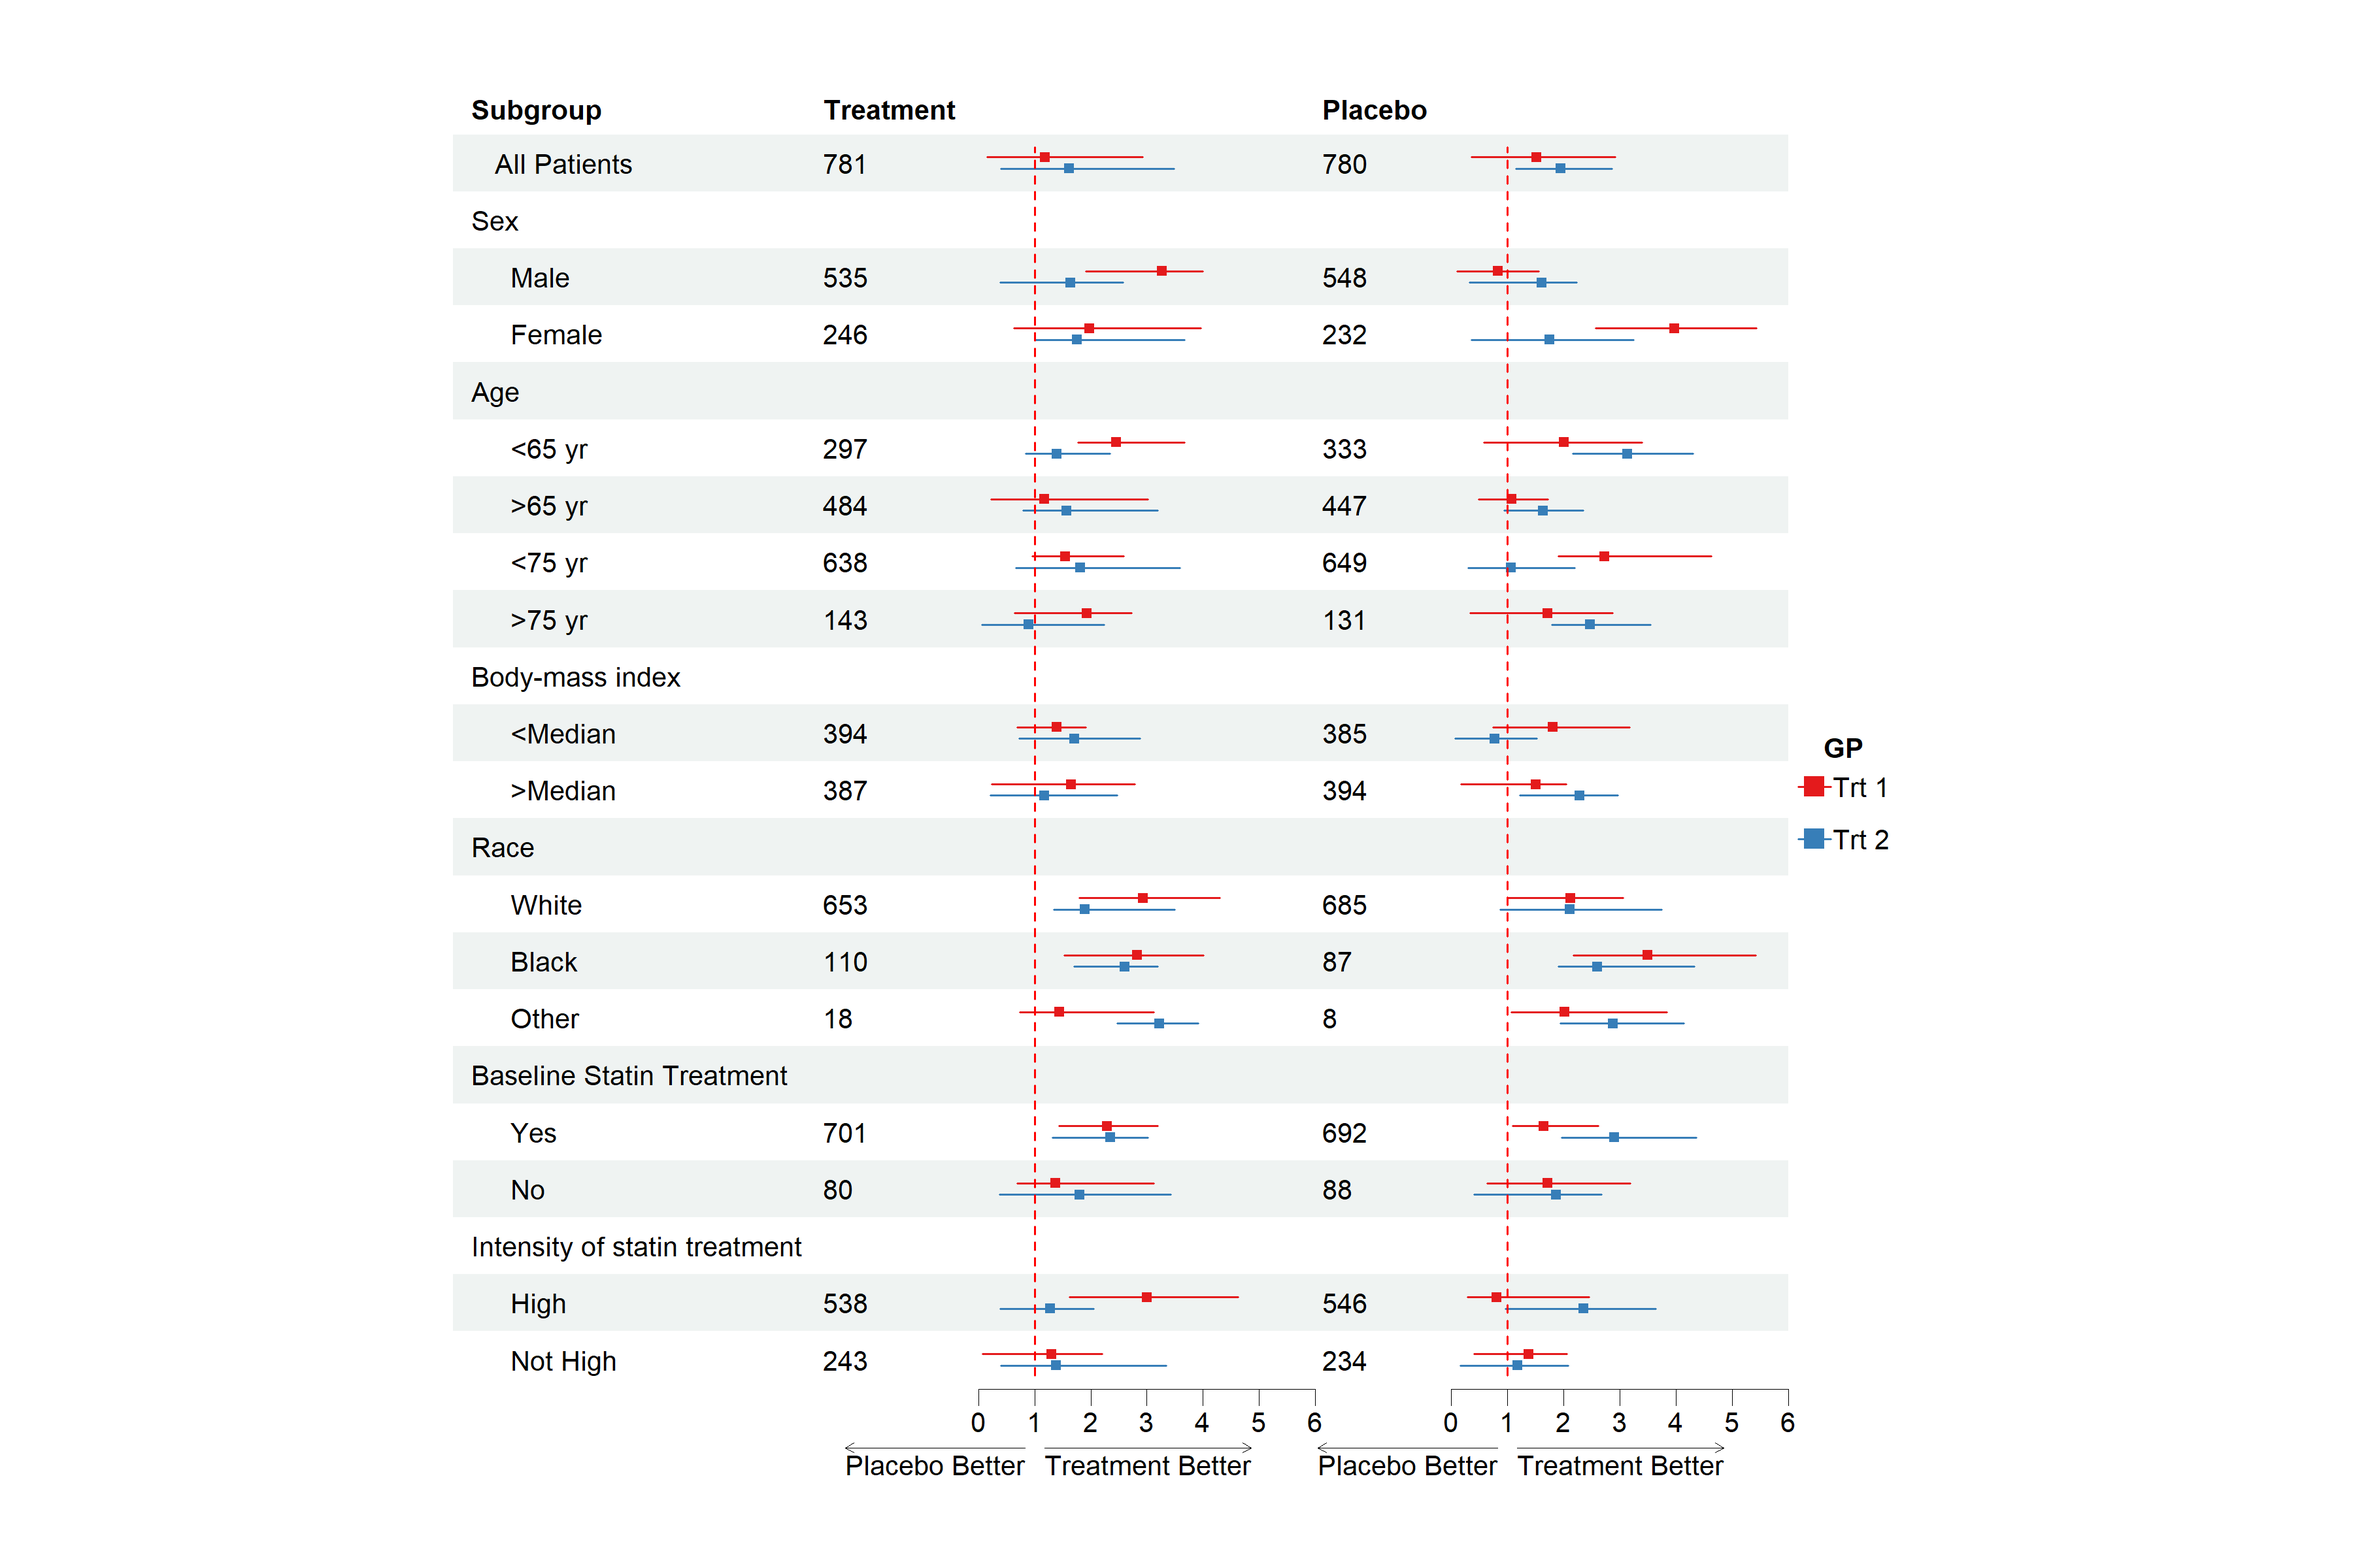
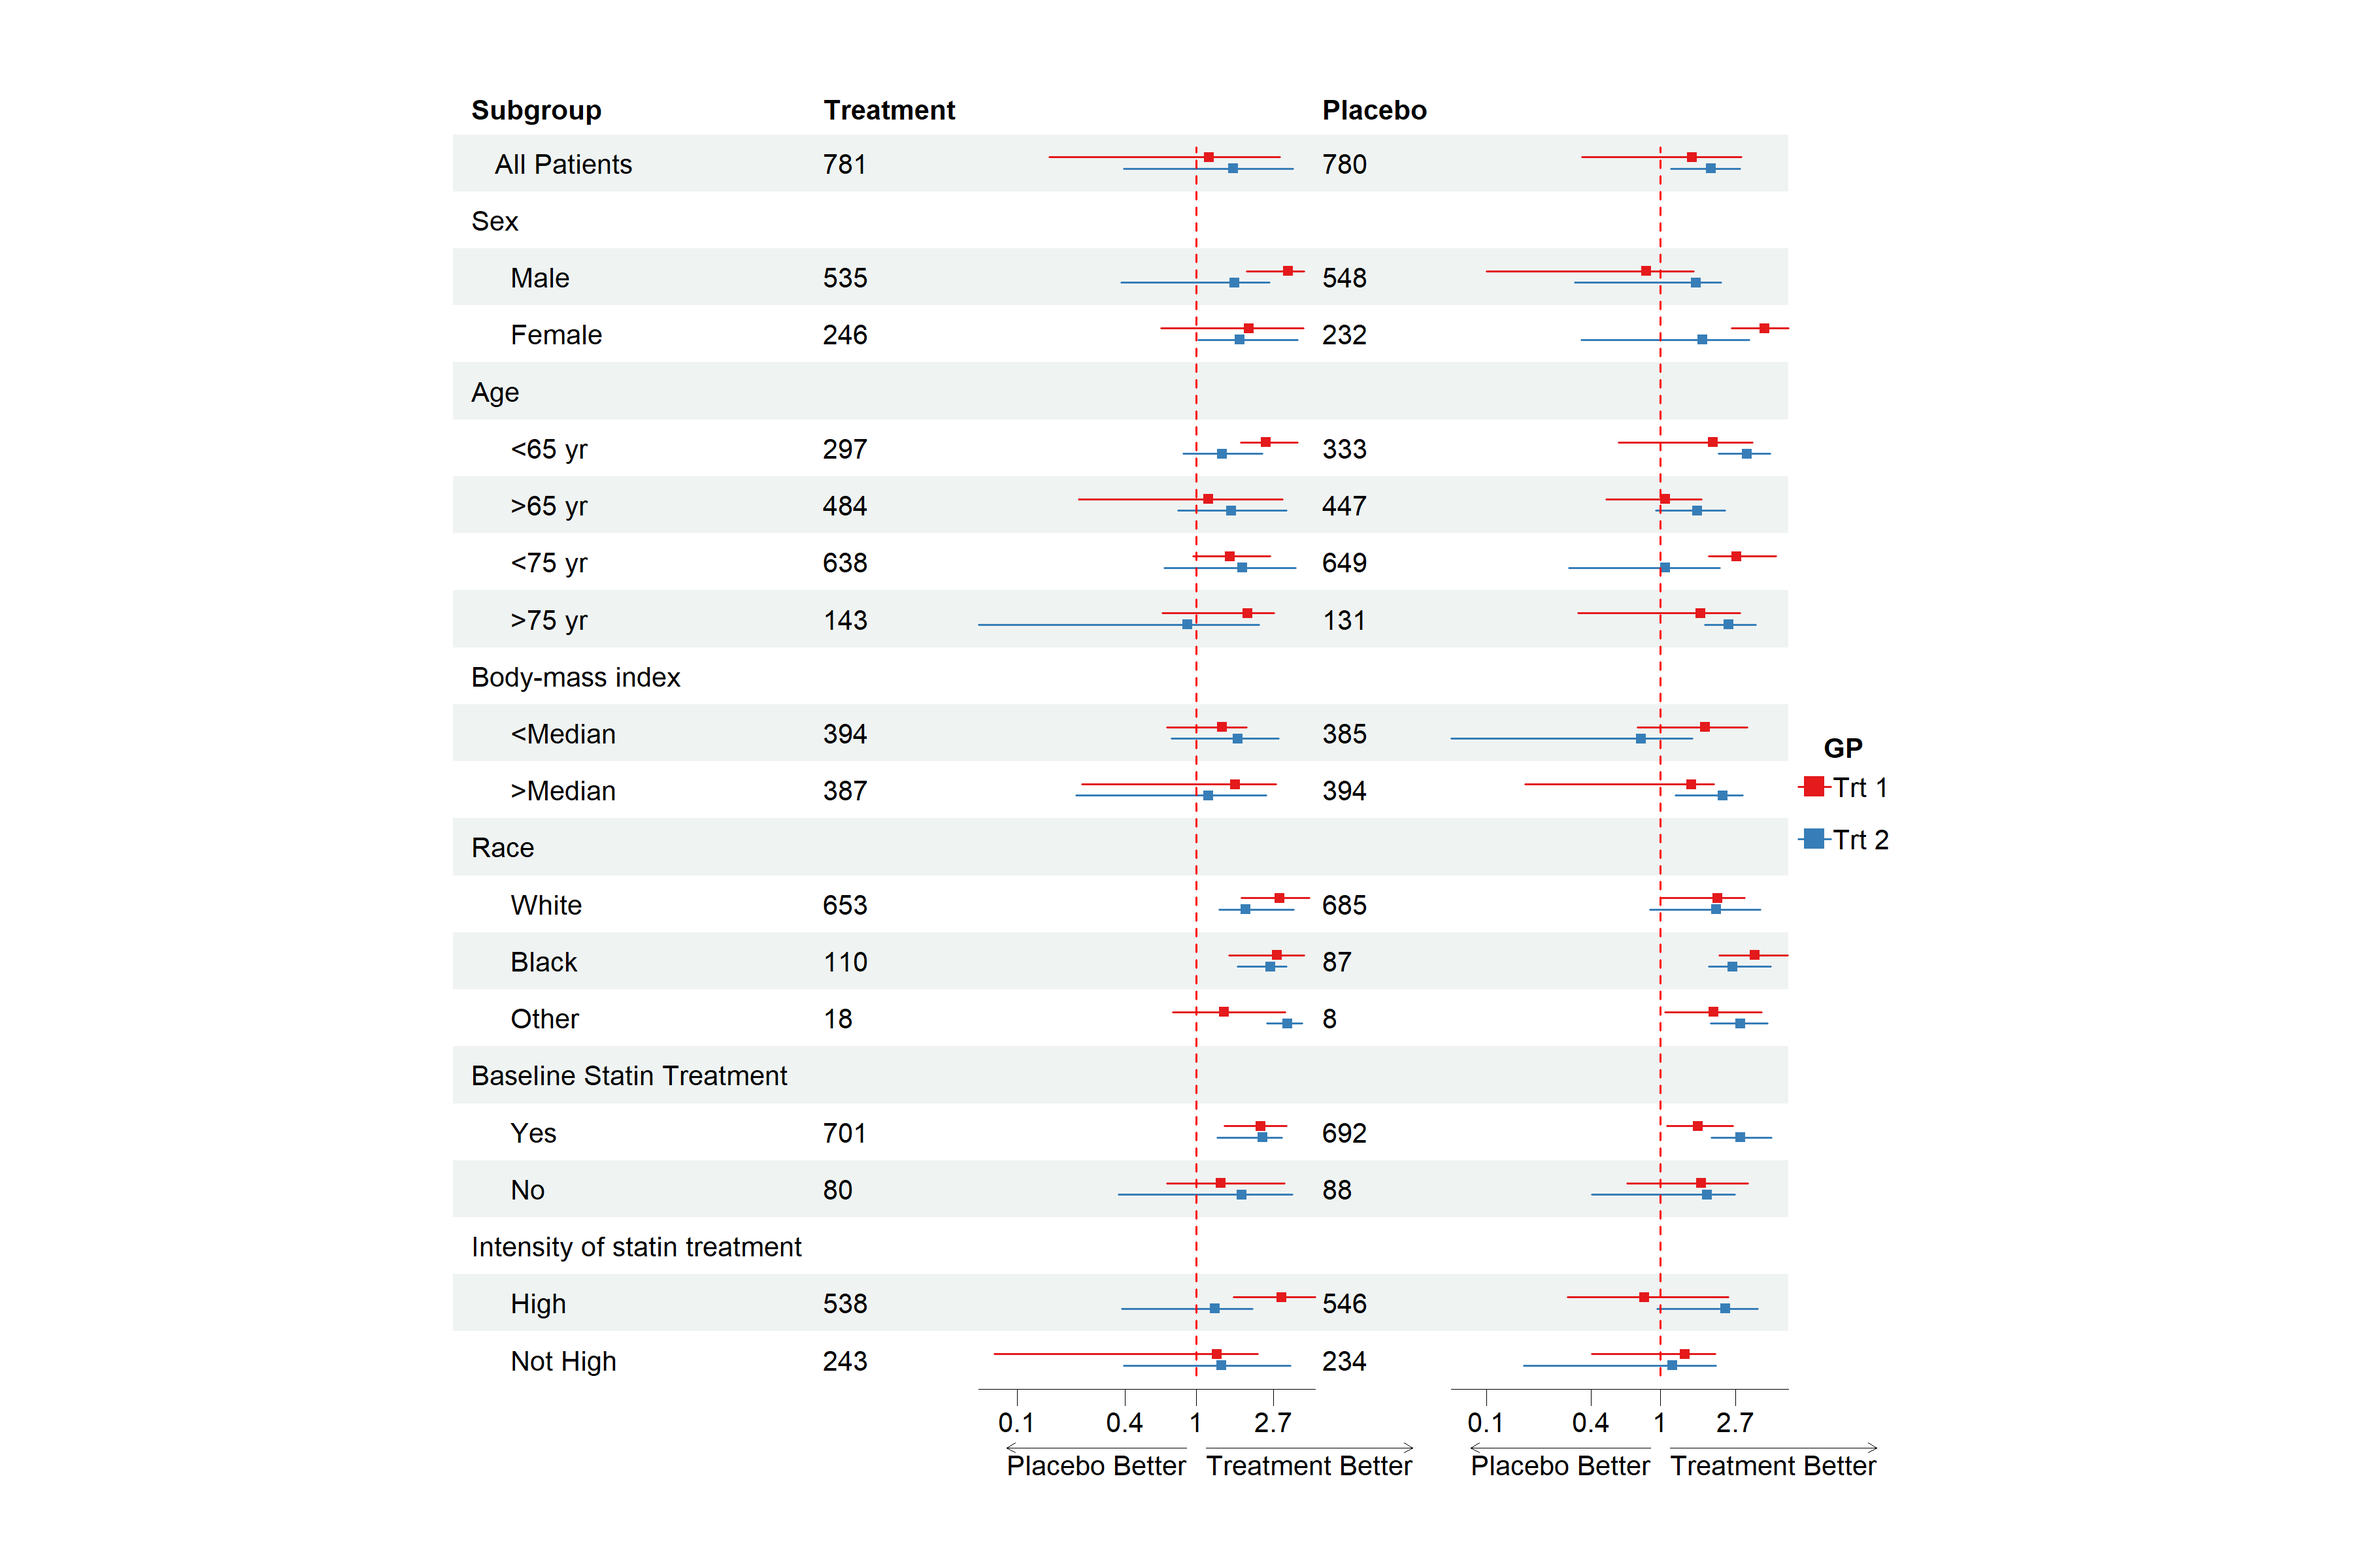
Enable log scale

diff --git a/README.md b/README.md
@@ -74,7 +74,7 @@ p <- forest(dt[,c(1:3, 20:21)],
             ref_line = 1,
             arrow_lab = c("Placebo Better", "Treatment Better"),
             xlim = c(0, 4),
-            xaxis = set_xaxis(c(0.5, 1, 2, 3)),
+            ticks_at = c(0.5, 1, 2, 3),
             footnote = "This is the demo data. Please feel free to change\nanything you want.",
             theme = tm)
 
@@ -178,18 +178,10 @@ p <- forest(dt[,c(1:2, 20, 3, 22)],
             ref_line = 1,
             arrow_lab = c("Placebo Better", "Treatment Better"),
             nudge_y = 0.2,
+            xlog = TRUE,
             theme = tm)
 
 plot(p)
 ```
 
 <img src="man/figures/README-multiple-1.png" width="100%" height="80%" />
-
-# TODO
-
--   [ ] Expose more parameters, but keep it simple. Maybe treat it as a
-    theme.
--   [ ] More documentation
--   [ ] Different point estimation symbols allow for different
-    estimation type.
--   [ ] Need some testing.
